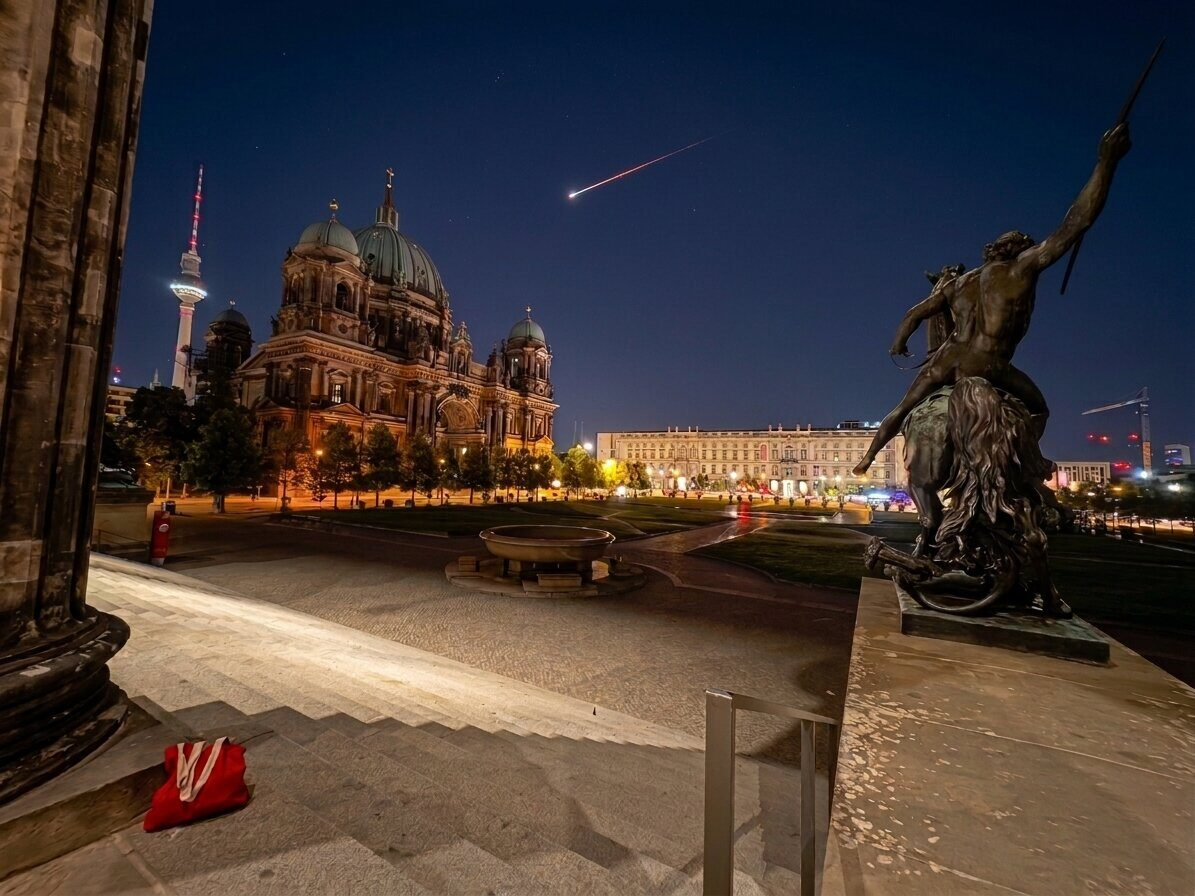
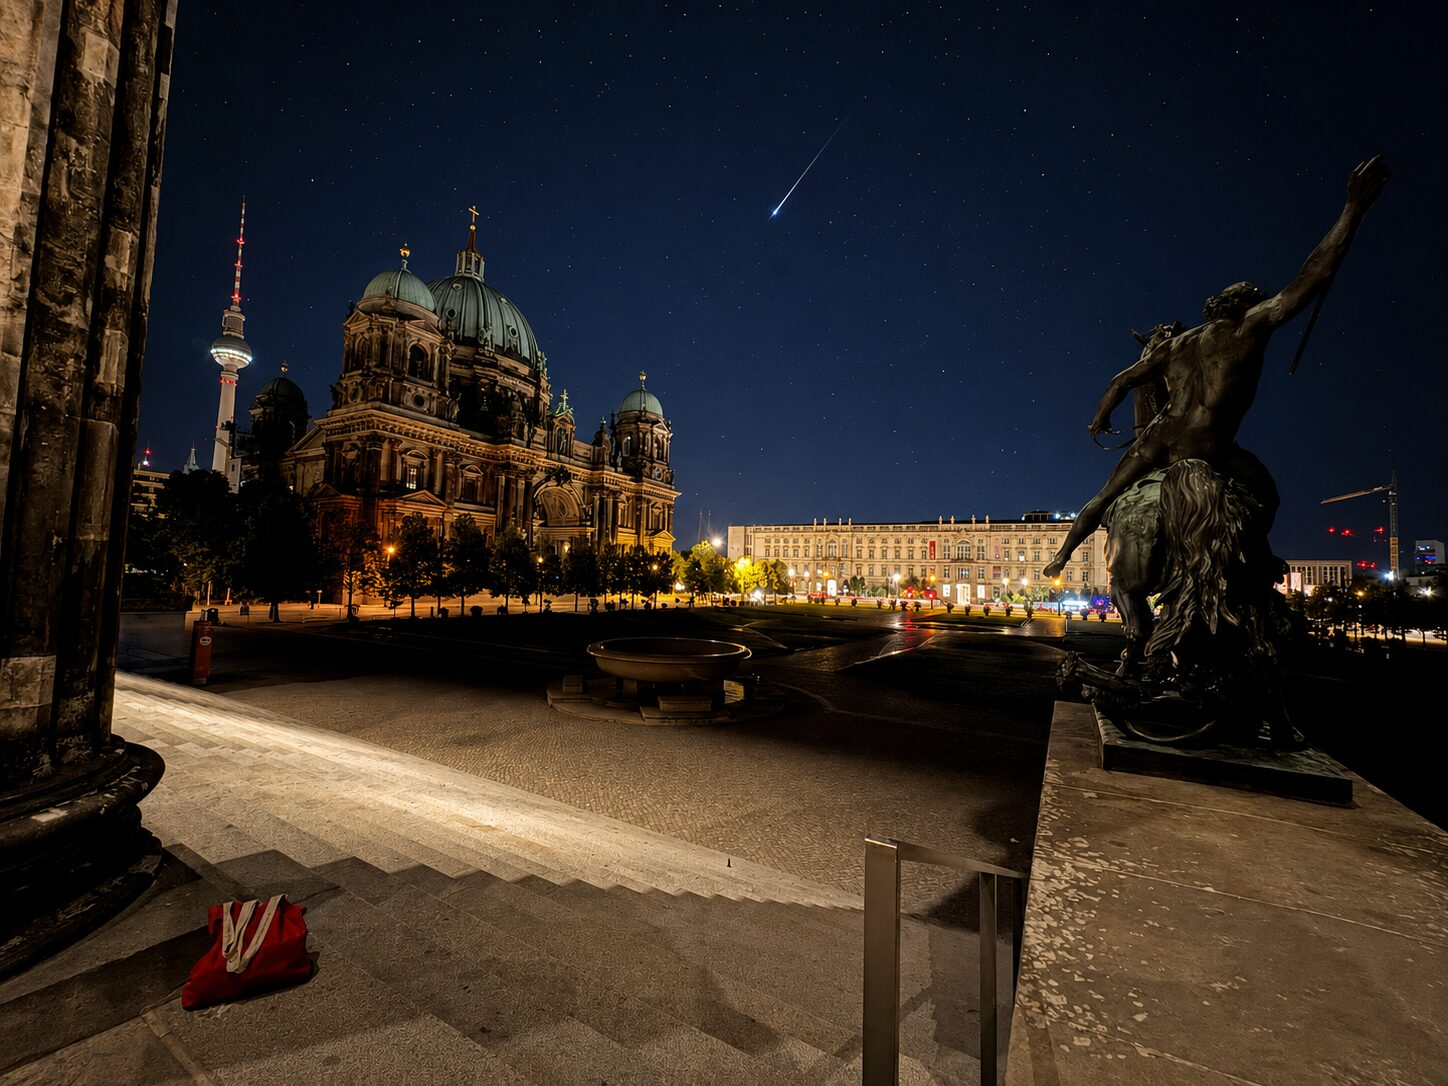
Add 38 new Berlin photographs to the latent space, in a sixth cluster for art and walls
The new pictures appear only in the latent space, resized to 800px; the originals stay local. berlin-06 is rebuilt from the sharper version, and the clusters are spread so all 65 pictures fit.

diff --git a/index.html b/index.html
@@ -1686,7 +1686,44 @@ html.mobile .berlinai { font-size: 16px; margin-top: 22px; }
    To add photographs, put them in assets/berlin/more/ and list them in MORE with a group. */
 (function () {
   var MORE = [
-    // { src: 'assets/berlin/more/name.jpg', group: 'life' }
+    { src: 'assets/berlin/more/more-01.jpg', group: 'stone' },
+    { src: 'assets/berlin/more/more-02.jpg', group: 'night' },
+    { src: 'assets/berlin/more/more-03.jpg', group: 'art' },
+    { src: 'assets/berlin/more/more-04.jpg', group: 'life' },
+    { src: 'assets/berlin/more/more-05.jpg', group: 'print' },
+    { src: 'assets/berlin/more/more-06.jpg', group: 'print' },
+    { src: 'assets/berlin/more/more-07.jpg', group: 'life' },
+    { src: 'assets/berlin/more/more-08.jpg', group: 'art' },
+    { src: 'assets/berlin/more/more-09.jpg', group: 'night' },
+    { src: 'assets/berlin/more/more-10.jpg', group: 'night' },
+    { src: 'assets/berlin/more/more-11.jpg', group: 'art' },
+    { src: 'assets/berlin/more/more-12.jpg', group: 'sky' },
+    { src: 'assets/berlin/more/more-13.jpg', group: 'stone' },
+    { src: 'assets/berlin/more/more-14.jpg', group: 'life' },
+    { src: 'assets/berlin/more/more-15.jpg', group: 'stone' },
+    { src: 'assets/berlin/more/more-16.jpg', group: 'stone' },
+    { src: 'assets/berlin/more/more-17.jpg', group: 'stone' },
+    { src: 'assets/berlin/more/more-18.jpg', group: 'art' },
+    { src: 'assets/berlin/more/more-19.jpg', group: 'stone' },
+    { src: 'assets/berlin/more/more-20.jpg', group: 'art' },
+    { src: 'assets/berlin/more/more-21.jpg', group: 'sky' },
+    { src: 'assets/berlin/more/more-22.jpg', group: 'art' },
+    { src: 'assets/berlin/more/more-23.jpg', group: 'stone' },
+    { src: 'assets/berlin/more/more-24.jpg', group: 'stone' },
+    { src: 'assets/berlin/more/more-25.jpg', group: 'life' },
+    { src: 'assets/berlin/more/more-26.jpg', group: 'sky' },
+    { src: 'assets/berlin/more/more-27.jpg', group: 'print' },
+    { src: 'assets/berlin/more/more-28.jpg', group: 'print' },
+    { src: 'assets/berlin/more/more-29.jpg', group: 'art' },
+    { src: 'assets/berlin/more/more-30.jpg', group: 'stone' },
+    { src: 'assets/berlin/more/more-31.jpg', group: 'stone' },
+    { src: 'assets/berlin/more/more-32.jpg', group: 'night' },
+    { src: 'assets/berlin/more/more-33.jpg', group: 'art' },
+    { src: 'assets/berlin/more/more-34.jpg', group: 'night' },
+    { src: 'assets/berlin/more/more-35.jpg', group: 'art' },
+    { src: 'assets/berlin/more/more-36.jpg', group: 'night' },
+    { src: 'assets/berlin/more/more-37.jpg', group: 'night' },
+    { src: 'assets/berlin/more/more-38.jpg', group: 'night' }
   ];
   var slide = document.querySelector('.blatent'), mosaic = document.querySelector('.bslide');
   var bronzeImgs = document.querySelectorAll('.bronzes img');
@@ -1704,11 +1741,13 @@ html.mobile .berlinai { font-size: 16px; margin-top: 22px; }
   var groups = {
     sky: { label: 'skies', c: [250, 150, -60] },
     night: { label: 'night and light', c: [-250, 30, 170] },
-    stone: { label: 'bronze and stone', c: [-80, -190, -190] },
-    life: { label: 'people', c: [210, -150, 200] },
-    print: { label: 'print and archive', c: [-60, 250, 60] }
+    stone: { label: 'bronze, stone and glass', c: [-90, -200, -190] },
+    life: { label: 'people', c: [210, -160, 200] },
+    print: { label: 'words and print', c: [-60, 260, 60] },
+    art: { label: 'art and walls', c: [40, 60, -320] }
   };
   var keys = Object.keys(groups);
+  keys.forEach(function (k) { groups[k].c = groups[k].c.map(function (v) { return v * 1.15; }); });
   var groupOf = { 1: 'sky', 3: 'sky', 7: 'sky', 10: 'sky', 18: 'sky', 19: 'sky', 20: 'sky',
     2: 'night', 4: 'night', 6: 'night', 8: 'night', 12: 'night',
     5: 'stone', 11: 'stone', 13: 'stone', 14: 'stone', 21: 'stone',
@@ -1716,14 +1755,14 @@ html.mobile .berlinai { font-size: 16px; margin-top: 22px; }
   function near(g, s) { var c = groups[g].c; return [c[0] + gauss() * s, c[1] + gauss() * s, c[2] + gauss() * s]; }
   var photos = Array.prototype.map.call(mosaic.querySelectorAll('.mt'), function (f) {
     var g = groupOf[+f.getAttribute('data-n')];
-    return { img: f.querySelector('img'), g: g, p: near(g, 62), i0: +f.style.getPropertyValue('--i') };
+    return { img: f.querySelector('img'), g: g, p: near(g, 75), i0: +f.style.getPropertyValue('--i') };
   });
   photos.sort(function (a, b) { return a.i0 - b.i0; });
   var bronzes = target ? [{ img: bronzeImgs[0], g: 'stone', p: [-40, -130, -110], bronze: true }, { img: bronzeImgs[1], g: 'stone', p: [20, -155, -140], bronze: true }] : [];
   var extras = [];
   if (kavehImg) extras.push({ img: kavehImg, g: 'print', p: near('print', 30) });
   MORE.forEach(function (m) {
-    var im = new Image(), g = groups[m.group] ? m.group : 'print', nd = { img: im, g: g, p: near(g, 62) };
+    var im = new Image(), g = groups[m.group] ? m.group : 'print', nd = { img: im, g: g, p: near(g, 75) };
     im.onerror = function () { nd.img = null; };
     im.src = m.src; extras.push(nd);
   });
@@ -1743,7 +1782,7 @@ html.mobile .berlinai { font-size: 16px; margin-top: 22px; }
     var r = canvas.getBoundingClientRect(), ratio = (window.devicePixelRatio || 1) * (r.width / (W || 1));
     canvas.width = Math.round(W * ratio); canvas.height = Math.round(H * ratio);
     ctx.setTransform(ratio, 0, 0, ratio, 0, 0);
-    S = Math.min(W / 820, H / 900);
+    S = Math.min(W / 900, H / 1020);
   }
   function rot(p) {
     var ca = Math.cos(yaw), sa = Math.sin(yaw), cb = Math.cos(pitch), sb = Math.sin(pitch);
@@ -1837,7 +1876,7 @@ html.mobile .berlinai { font-size: 16px; margin-top: 22px; }
     list.forEach(function (it) {
       var nd = it.nd, img = nd.img; it.nd.box = null;
       if (!img || !img.naturalWidth) return;
-      var end = 74 * it.P.k * S * (it.i === hover ? 1.6 : 1);
+      var end = 60 * it.P.k * S * (it.i === hover ? 2 : 1);
       if (nd.bronze) {
         var bi = it.i - nb, a = ease((t - 1.6 - bi * .15) / 1); if (!a) return;
         var bx = fitBox(img, end), P = leave ? leave.start[bi] : it.P, T = leave ? leave.to[bi] : null;
@@ -1850,7 +1889,7 @@ html.mobile .berlinai { font-size: 16px; margin-top: 22px; }
         nd.box = { x: cx - w / 2, y: cy - h / 2, w: w, h: h };
         return;
       }
-      var m = it.i < photos.length ? ease((t - it.i * .025) / 1.7) : ease((t - 1.8 - (it.i - photos.length) * .12) / 1);
+      var m = it.i < photos.length ? ease((t - it.i * .025) / 1.7) : ease((t - 1.8 - (it.i - photos.length) * .03) / 1);
       if (!m) return;
       var f = from[it.i] || { x: it.P.x, y: it.P.y, w: 0, h: 0 };
       var b = fitBox(img, end), w2 = lerp(f.w, b.w, m), h2 = lerp(f.h, b.h, m), x2 = lerp(f.x, it.P.x, m), y2 = lerp(f.y, it.P.y, m);

diff --git a/assets/berlin/README.md b/assets/berlin/README.md
@@ -10,20 +10,17 @@ They appear on two slides, between the timeline and "In Berlin, two bronzes.":
    mosaic stays as it is and every photograph is legible. On a phone the mosaic becomes two columns.
    Row order: 06 01 08 05 16 · 13 20 12 03 17 14 · 10 22 04 19 02 11 · 07 21 15 23 18 09.
 2. **Latent space.** Every Berlin picture in the deck sits at the tip of a vector among 170 grey ones:
-   the 23 (they fly in from the mosaic), the two bronzes, and the first page of *Kāveh*. They form five
-   clusters, each with a faint outline and a name. Hovering a picture turns its cluster's vectors red.
-   Otherwise only the bronzes' vectors are red; moving on, the view closes in on them and sets them down
-   where the next slide holds them.
-   - skies: 01, 03, 07, 10, 18, 19, 20
-   - night and light: 02, 04, 06, 08, 12
-   - bronze and stone: 05, 11, 13, 14, 21, and the two bronzes
-   - people: 09, 15, 16, 17, 22, 23
-   - print and archive: *Kāveh*, 1916
+   the 23 (they fly in from the mosaic), the two bronzes, the first page of *Kāveh*, and the 38 in `more/`,
+   which appear only here. They form six clusters, each with a faint outline and a name. Hovering a picture
+   turns its cluster's vectors red. Otherwise only the bronzes' vectors are red; moving on, the view closes
+   in on them and sets them down where the next slide holds them.
+   Clusters: skies · night and light · bronze, stone and glass · people · words and print · art and walls.
+   The mosaic photographs' clusters are in `groupOf`; the others are in the `MORE` list, both in the
+   latent-space script in `index.html`.
 
-To add photographs to the latent space only, put them in `assets/berlin/more/` (any names) and list each
-one in the `MORE` array at the top of the latent-space script in `index.html`, with its cluster:
-`{ src: 'assets/berlin/more/name.jpg', group: 'life' }`. The groups are `sky`, `night`, `stone`, `life`
-and `print`. Resize them to at most 1600px on the long side first.
+To add photographs to the latent space only, resize them to at most 800px on the long side, save them in
+`more/` as the next `more-NN.jpg`, and add a line to `MORE` with its cluster (`sky`, `night`, `stone`,
+`life`, `print` or `art`). The full-size originals are kept locally in `_originals/`, which is not published.
 
 To swap a photograph, replace the file and keep its name. The row layout and each photo's zoom origin are
 written into `index.html` for the current aspect ratios, so a replacement with a different shape needs the
